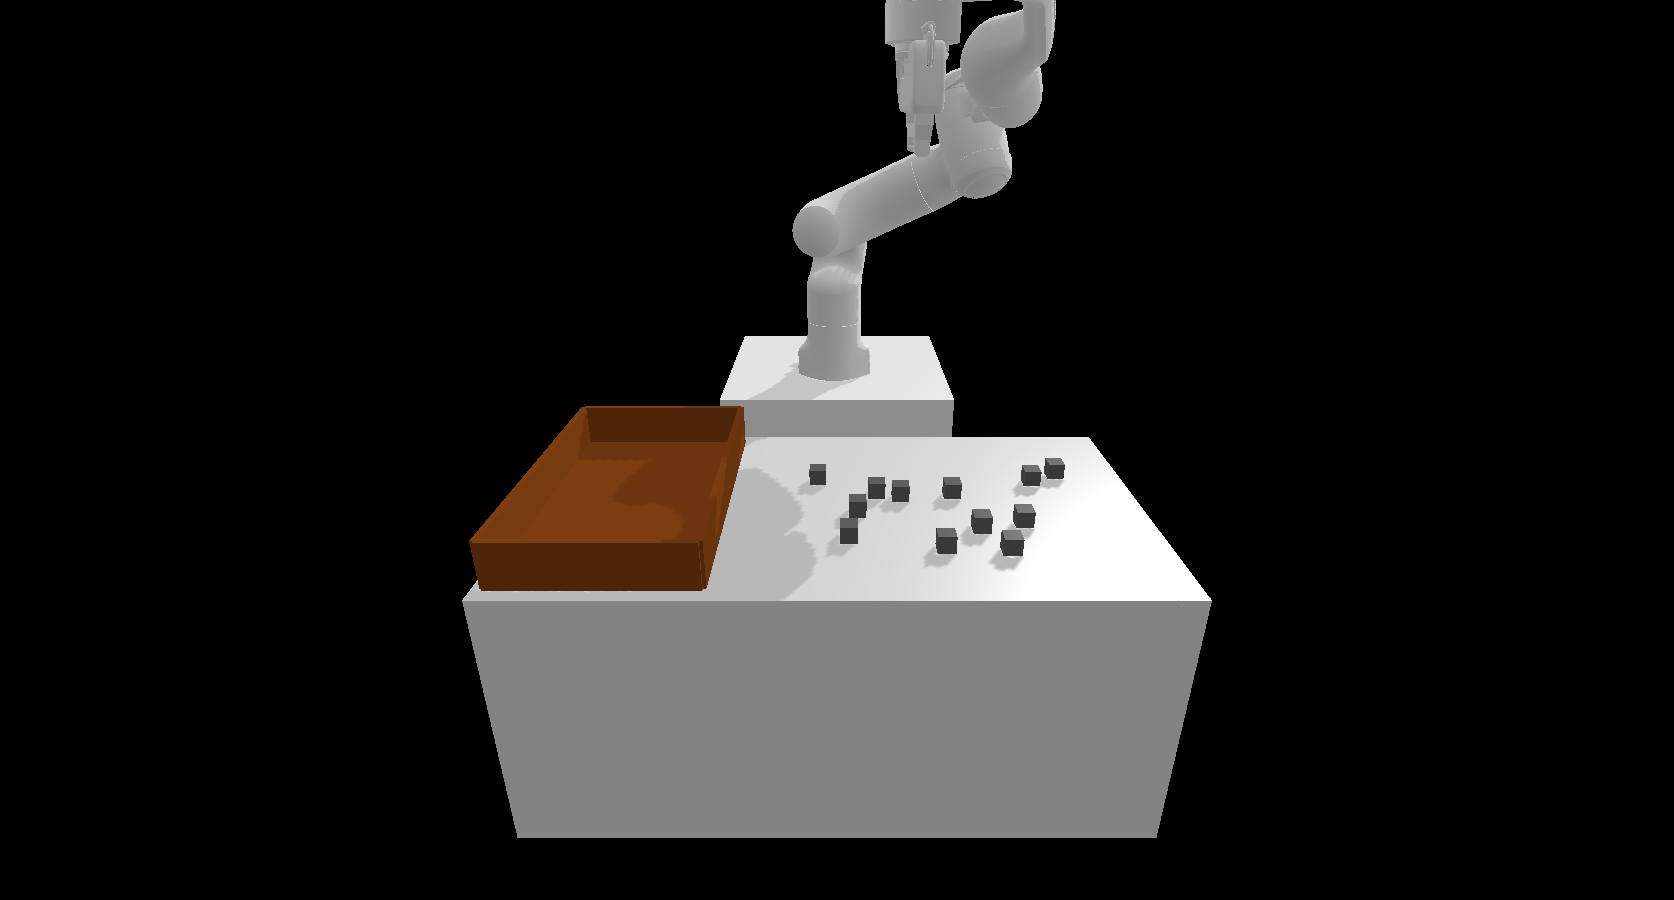
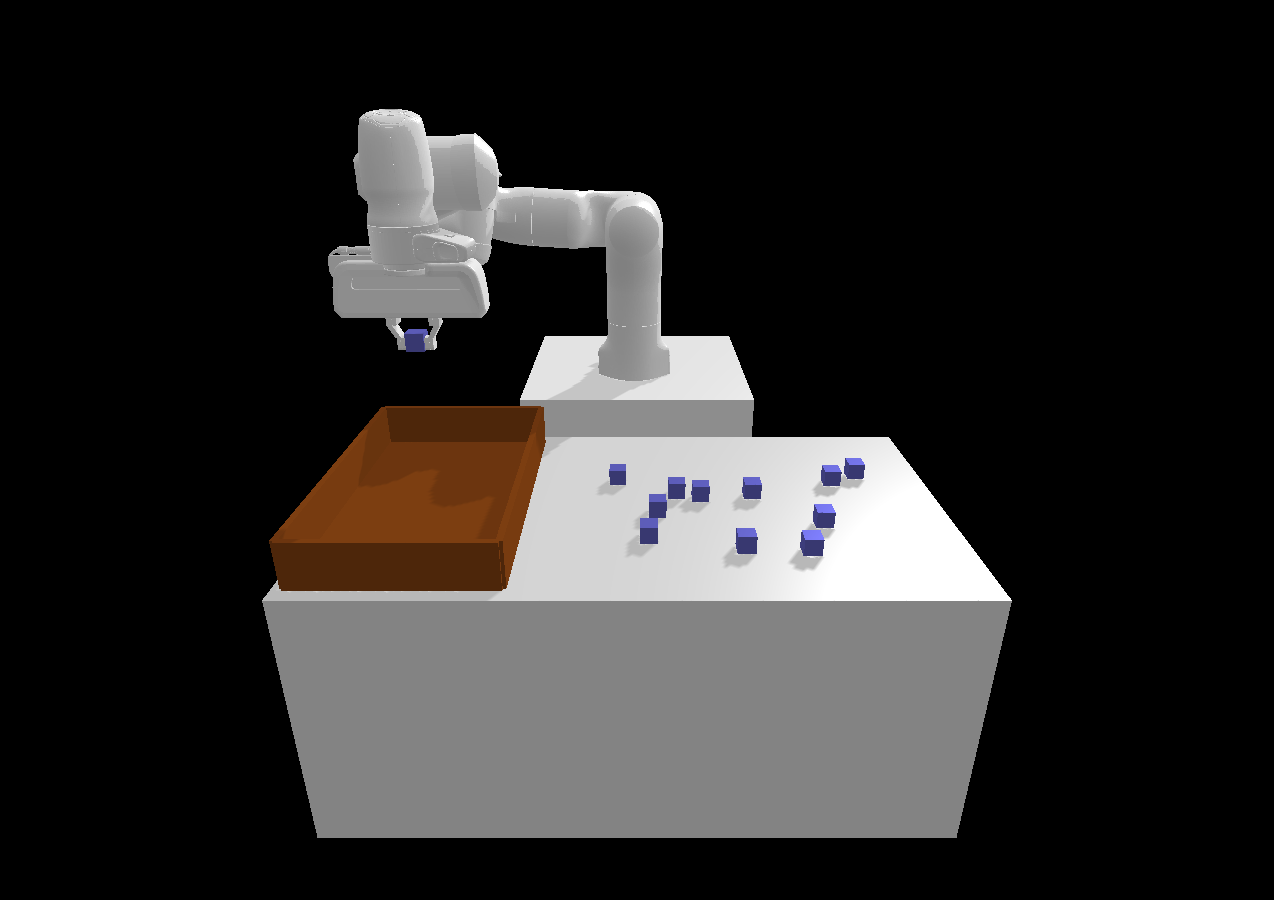
wip

Changed region(s): [[0.2449, 0.0, 0.7959, 0.9333], [0.1837, 0.4356, 0.3673, 0.9333], [0.551, 0.3733, 0.6122, 0.4978]]

diff --git a/predicators/envs/blocks.py b/predicators/envs/blocks.py
@@ -42,8 +42,8 @@ class BlocksEnv(BaseEnv):
     y_ub: ClassVar[float] = 1.1
     pick_z: ClassVar[float] = 0.7
     robot_init_x: ClassVar[float] = (x_lb + x_ub) / 2
-    robot_init_y: ClassVar[float] = (y_lb + y_ub) / 2
-    robot_init_z: ClassVar[float] = pick_z
+    robot_init_y: ClassVar[float] = (y_lb + y_ub) / 2 - 0.4
+    robot_init_z: ClassVar[float] = pick_z - 0.25
     held_tol: ClassVar[float] = 0.5
     pick_tol: ClassVar[float] = 0.0001
     on_tol: ClassVar[float] = 0.01
@@ -326,7 +326,7 @@ class BlocksEnv(BaseEnv):
             pile_i, pile_j = pile_idx
             x, y = pile_to_xy[pile_i]
             z = self.table_height + self._block_size * (0.5 + pile_j)
-            r, g, b = 0.4, 0.4, 0.4
+            r, g, b = 0.4, 0.4, 0.8
             if "clear" in self._block_type.feature_names:
                 # [pose_x, pose_y, pose_z, held, color_r, color_g, color_b,
                 # clear]
@@ -342,7 +342,14 @@ class BlocksEnv(BaseEnv):
         rx, ry, rz = self.robot_init_x, self.robot_init_y, self.robot_init_z
         rf = 1.0  # fingers start out open
         data[self._robot] = np.array([rx, ry, rz, rf], dtype=np.float32)
-        return State(data)
+        state = State(data)
+
+        block = [b for b in block_to_pile_idx if b.name == "block0"][0]
+        state.set(block, "pose_x", rx)
+        state.set(block, "pose_y", ry)
+        state.set(block, "pose_z", rz)
+
+        return state
 
     def _sample_goal_from_piles(self, num_blocks: int,
                                 piles: List[List[Object]],

diff --git a/predicators/pybullet_helpers/robots/panda.py b/predicators/pybullet_helpers/robots/panda.py
@@ -45,11 +45,11 @@ class PandaPyBulletRobot(SingleArmPyBulletRobot):
 
     @property
     def open_fingers(self) -> float:
-        return 0.04
+        return 0.01 #0.04
 
     @property
     def closed_fingers(self) -> float:
-        return 0.03
+        return 0.005 #0.03
 
     @classmethod
     def ikfast_info(cls) -> Optional[IKFastInfo]:

diff --git a/predicators/settings.py b/predicators/settings.py
@@ -164,7 +164,7 @@ class GlobalSettings:
         {
             "pybullet_blocks": {
                 "fetch": (0.7071, 0.0, -0.7071, 0.0),
-                "panda": (0.7071, 0.7071, 0.0, 0.0),
+                "panda": (1.0, 0.0, 0.0, 0.0),
             }
         })
 

diff --git a/predicators/envs/pybullet_env.py b/predicators/envs/pybullet_env.py
@@ -190,6 +190,7 @@ class PyBulletEnv(BaseEnv):
         self._current_observation = self._get_state()
 
         img = self.render()[0]
+        img = img[:, 200:-200]
         import imageio.v2 as iio
         iio.imsave("out.png", img)
         import sys; sys.exit(0)
